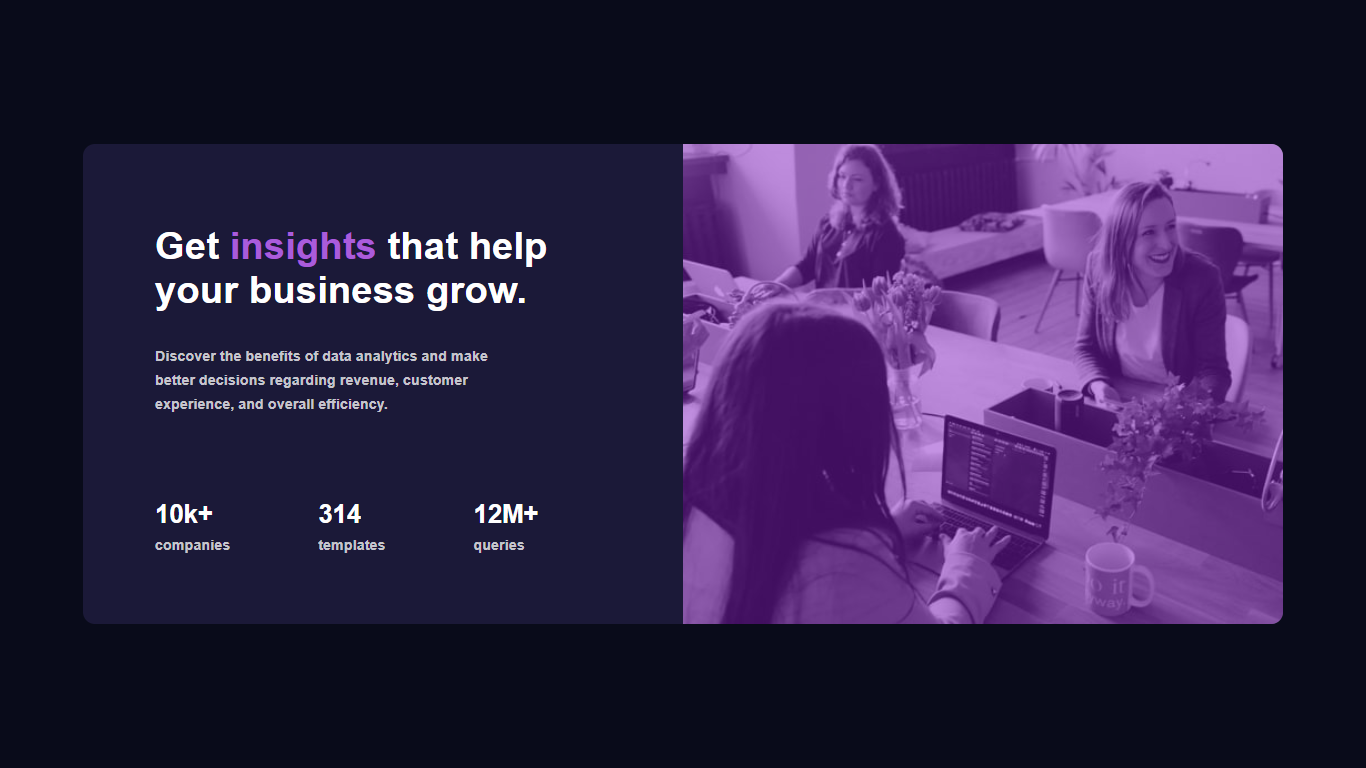
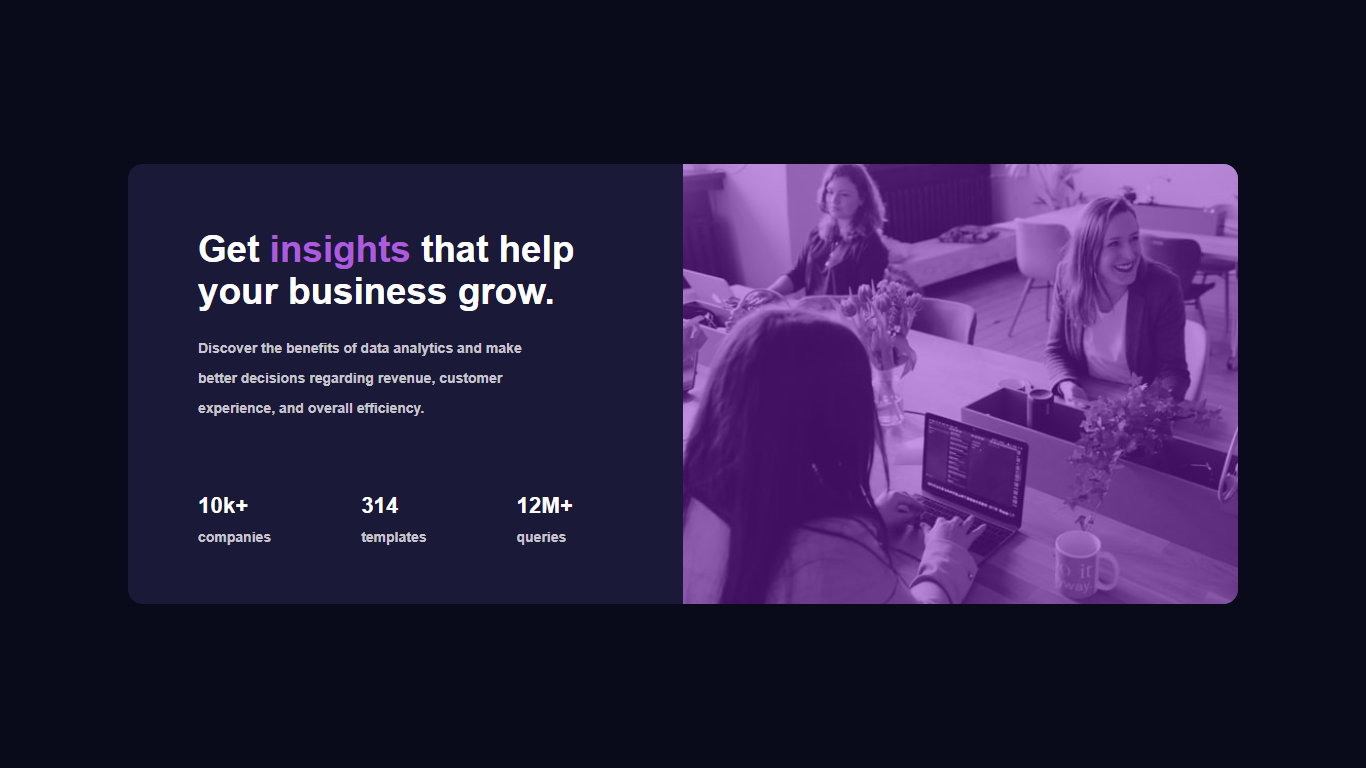
.

Changed region(s): [[0.0615, 0.1875, 0.9531, 0.8125], [0.3382, 0.625, 0.4305, 0.7188], [0.4919, 0.6562, 0.5534, 0.6875]]

diff --git a/estilos/mobile.css b/estilos/mobile.css
@@ -33,14 +33,6 @@ main{
     transition: width 1s, heigth 1s;
     transition-timing-function: ease;
 
-    animation: anim 1s linear;
-    @keyframes anim{
-          from{width: 555px; height: 220px;}
-          to{width: 1110; height: 440px;}
-          
-      }
-  
-
     margin: 100px 0px;
     background-color: var(--Darkdesaturatedbluecardbackground);
     width: 370px;

diff --git a/estilos/desktop.css b/estilos/desktop.css
@@ -7,10 +7,7 @@
         flex-direction: row-reverse;
         width: 1110px;
         height: 440px;
-        margin: unset;
-       
-        
-    
+        margin: unset;   
         animation: anim 1s linear;
     }
 

diff --git a/README-template.md b/README-template.md
@@ -7,7 +7,7 @@
 ### Links
 
 - Solution URL: [Add solution URL here](https://github.com/Wellissonb/stats-preview-card-component)
-- Live Site URL: [Add live site URL here]()
+- Live Site URL: [Add live site URL here](https://wellissonb.github.io/stats-preview-card-component/)
 
 ## My process
 
